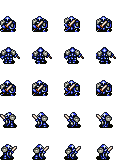
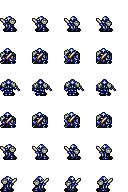
New game sprites working

diff --git a/2DRPG/src/UI/MenuMainMenu.cpp b/2DRPG/src/UI/MenuMainMenu.cpp
@@ -250,22 +250,22 @@ void MenuMainMenu::SetupNewCharacterPanels()
 	mNewCharacterButtonOne.mPosition =
 		CalcWindowPositionFromUV(mNewCharacterPanelOne.mPosition) +
 		Vec2(TEXT_PADDING, mNewCharacterPanelOne.mSize.y - Font::fontHeight * TEXT_SIZE - TEXT_PADDING);
-	mNewCharacterButtonOne.mText = "Paladin";
+	mNewCharacterButtonOne.mText = mClasses[mNewCharacterClasses[0]];
 
 	mNewCharacterButtonTwo.mPosition =
 		CalcWindowPositionFromUV(mNewCharacterPanelTwo.mPosition) +
 		Vec2(TEXT_PADDING, mNewCharacterPanelOne.mSize.y - Font::fontHeight * TEXT_SIZE - TEXT_PADDING);
-	mNewCharacterButtonTwo.mText = "Dancer";
+	mNewCharacterButtonTwo.mText = mClasses[mNewCharacterClasses[1]];
 
 	mNewCharacterButtonThree.mPosition =
 		CalcWindowPositionFromUV(mNewCharacterPanelThree.mPosition) +
 		Vec2(TEXT_PADDING, mNewCharacterPanelOne.mSize.y - Font::fontHeight * TEXT_SIZE - TEXT_PADDING);
-	mNewCharacterButtonThree.mText = "Mage";
+	mNewCharacterButtonThree.mText = mClasses[mNewCharacterClasses[2]];
 
 	mNewCharacterButtonFour.mPosition =
 		CalcWindowPositionFromUV(mNewCharacterPanelFour.mPosition) +
 		Vec2(TEXT_PADDING, mNewCharacterPanelOne.mSize.y - Font::fontHeight * TEXT_SIZE - TEXT_PADDING);
-	mNewCharacterButtonFour.mText = "Knight";
+	mNewCharacterButtonFour.mText = mClasses[mNewCharacterClasses[3]];
 
 	mNewCharacterNameButtonOne.mPosition = CalcWindowPositionFromUV(mNewCharacterNamePanelOne.mPosition) + Vec2(TEXT_PADDING);
 	mNewCharacterNameButtonOne.mText = "Name";
@@ -570,25 +570,25 @@ void MenuMainMenu::SetupNewCharacterClassSprites()
 	mNewCharacterClassOne.mPosition = CalcWindowPositionFromUV(mNewCharacterPanelOne.mPosition) + Vec2(TEXT_PADDING, 0.0f);
 	mNewCharacterClassOne.mOffset = { 0.0f, -16 * TILE_SPRITE_SCALE };
 	mNewCharacterClassOne.mSize = { 32 * TILE_SPRITE_SCALE, 32 * TILE_SPRITE_SCALE };
-	mNewCharacterClassOne.mAssetID = "Paladin";
+	mNewCharacterClassOne.mAssetID = mClasses[mNewCharacterClasses[0]];
 
 	mNewCharacterClassTwo.mSrcRect = { 0, 0, 32, 32 };
 	mNewCharacterClassTwo.mPosition = CalcWindowPositionFromUV(mNewCharacterPanelTwo.mPosition) + Vec2(TEXT_PADDING, 0.0f);
 	mNewCharacterClassTwo.mOffset = { 0.0f, -16 * TILE_SPRITE_SCALE };
 	mNewCharacterClassTwo.mSize = { 32 * TILE_SPRITE_SCALE, 32 * TILE_SPRITE_SCALE };
-	mNewCharacterClassTwo.mAssetID = "Dancer";
+	mNewCharacterClassTwo.mAssetID = mClasses[mNewCharacterClasses[1]];
 
 	mNewCharacterClassThree.mSrcRect = { 0, 0, 32, 32 };
 	mNewCharacterClassThree.mPosition = CalcWindowPositionFromUV(mNewCharacterPanelThree.mPosition) + Vec2(TEXT_PADDING, 0.0f);
 	mNewCharacterClassThree.mOffset = { 0.0f, -16 * TILE_SPRITE_SCALE };
 	mNewCharacterClassThree.mSize = { 32 * TILE_SPRITE_SCALE, 32 * TILE_SPRITE_SCALE };
-	mNewCharacterClassThree.mAssetID = "Mage";
+	mNewCharacterClassThree.mAssetID = mClasses[mNewCharacterClasses[2]];
 
 	mNewCharacterClassFour.mSrcRect = { 0, 0, 32, 32 };
 	mNewCharacterClassFour.mPosition = CalcWindowPositionFromUV(mNewCharacterPanelFour.mPosition) + Vec2(TEXT_PADDING, 0.0f);
 	mNewCharacterClassFour.mOffset = { 0.0f, -16 * TILE_SPRITE_SCALE };
 	mNewCharacterClassFour.mSize = { 32 * TILE_SPRITE_SCALE, 32 * TILE_SPRITE_SCALE };
-	mNewCharacterClassFour.mAssetID = "Knight";
+	mNewCharacterClassFour.mAssetID = mClasses[mNewCharacterClasses[3]];
 }
 
 void MenuMainMenu::SetupSelectNamePanel()
@@ -2262,6 +2262,18 @@ void MenuMainMenu::SetupFinishPanel()
 			GameManager::SetNewGameClass(i, mNewCharacterClasses[i]);
 			GameManager::SetNewGameNames(i, *mNewCharacterNames[i]);
 		}
+
+		/*GameManager::SetNewGameClass(0, mNewCharacterClasses[0]);
+		GameManager::SetNewGameNames(0, *mNewCharacterNames[0]);
+
+		GameManager::SetNewGameClass(1, mNewCharacterClasses[1]);
+		GameManager::SetNewGameNames(1, *mNewCharacterNames[1]);
+
+		GameManager::SetNewGameClass(3, mNewCharacterClasses[3]);
+		GameManager::SetNewGameNames(3, *mNewCharacterNames[3]);
+
+		GameManager::SetNewGameClass(2, mNewCharacterClasses[2]);
+		GameManager::SetNewGameNames(2, *mNewCharacterNames[2]);*/
 	};
 
 	mFinishPanel.mButtons.push_back(&mFinishButton);

diff --git a/2DRPG/src/Objects/ActorNpc.cpp b/2DRPG/src/Objects/ActorNpc.cpp
@@ -4,13 +4,13 @@
 
 void ActorNpc::Init(const std::string& name, const Vec2& spawnPosition, SDL_Renderer* renderer, std::string startingAnimation)
 {
-    std::string filePath = "./assets/images/" + name + ".png";
+    /*std::string filePath = "./assets/images/" + name + ".png";
     SDL_Surface* surface = IMG_Load(filePath.c_str());
     if (surface)
     {
         mSpriteSheet = SDL_CreateTextureFromSurface(renderer, surface);
     }
-    SDL_FreeSurface(surface);
+    SDL_FreeSurface(surface);*/
 
     mPosition = spawnPosition;
     mSprite.positionOffset = { 0.0f, -16.0f };
@@ -33,7 +33,7 @@ void ActorNpc::Render()
         mSprite.srcRect.h * TILE_SPRITE_SCALE
     };
 
-    GraphicsManager::DrawSpriteRect(mSpriteSheet, mSprite.srcRect, destRect);
+    GraphicsManager::DrawSpriteRect(AssetManager::GetAsset(mAssetID), mSprite.srcRect, destRect);
 }
 
 void ActorNpc::LoadAnimations(std::string animationsFilePath)

diff --git a/2DRPG/src/Scenes/SceneOverworld.cpp b/2DRPG/src/Scenes/SceneOverworld.cpp
@@ -22,10 +22,10 @@ void SceneOverworld::Setup(static SDL_Renderer* renderer)
     else if (GameManager::NewGame())
     {
         mSpawnPositions.clear();
-        mSpawnPositions.push_back(Vec2(16.0f, 17.0f) * TILE_SIZE);
-        mSpawnPositions.push_back(Vec2(17.0f, 17.0f) * TILE_SIZE);
-        mSpawnPositions.push_back(Vec2(17.0f, 18.0f) * TILE_SIZE);
-        mSpawnPositions.push_back(Vec2(16.0f, 18.0f) * TILE_SIZE);
+        mSpawnPositions.push_back(Vec2(0.0f, 0.0f) * TILE_SIZE);
+        mSpawnPositions.push_back(Vec2(1.0f, 0.0f) * TILE_SIZE);
+        mSpawnPositions.push_back(Vec2(1.0f, 1.0f) * TILE_SIZE);
+        mSpawnPositions.push_back(Vec2(0.0f, 1.0f) * TILE_SIZE);
 
         for (int i = 0; i < 4; i++)
         {

diff --git a/2DRPG/src/Objects/CharacterExploration.cpp b/2DRPG/src/Objects/CharacterExploration.cpp
@@ -14,9 +14,6 @@ CharacterExploration::~CharacterExploration()
 
 void CharacterExploration::Init(const std::string& name, const Vec2& spawnPosition, SDL_Renderer* renderer, std::string startinAnimation)
 {
-    ActorNpc::Init(name, spawnPosition, renderer);
-
-    mPosition = spawnPosition;
 }
 
 void CharacterExploration::LoadAnimations(std::string animationsFileName)
@@ -54,7 +51,7 @@ void CharacterExploration::Setup(const int partyIndex, const Vec2& spawnPosition
         }
     }
 
-    SetSpriteSheet(AssetManager::GetAsset(name));
+    mAssetID = name;
     LoadAnimations(name);
     SetPosition(spawnPosition);
 

diff --git a/2DRPG/src/UI/MenuMainMenu.h b/2DRPG/src/UI/MenuMainMenu.h
@@ -96,13 +96,13 @@ private:
 
 	std::string mClasses[4] =
 	{
-		"Paladin",
 		"Dancer",
 		"Mage",
-		"Knight"
+		"Knight",
+		"Paladin"
 	};
 
-	int mNewCharacterClasses[4] = { 0, 1, 2, 3 };
+	int mNewCharacterClasses[4] = { 3, 0, 2, 1 };
 	int mNewCharacterClassIndex = 0;
 
 	std::string* mNewCharacterNames[4] =

diff --git a/2DRPG/src/Managers/AssetManager.h b/2DRPG/src/Managers/AssetManager.h
@@ -45,8 +45,10 @@ public:
 	{
 		for (auto i : mAssetMap)
 		{
-			SDL_DestroyTexture(i.second);
+			SDL_DestroyTexture(i.second);	
 		}
+
+		mAssetMap.clear();
 	}
 
 	static void SwapCharacterTexture(int first, int second);

diff --git a/2DRPG/src/Objects/ActorNpc.h b/2DRPG/src/Objects/ActorNpc.h
@@ -36,6 +36,7 @@ public:
 
 public:
 	Sprite mSprite;
+	std::string mAssetID;
 	SDL_Texture* mSpriteSheet;
 
 	std::map<std::string, Animation> mAnimations;
